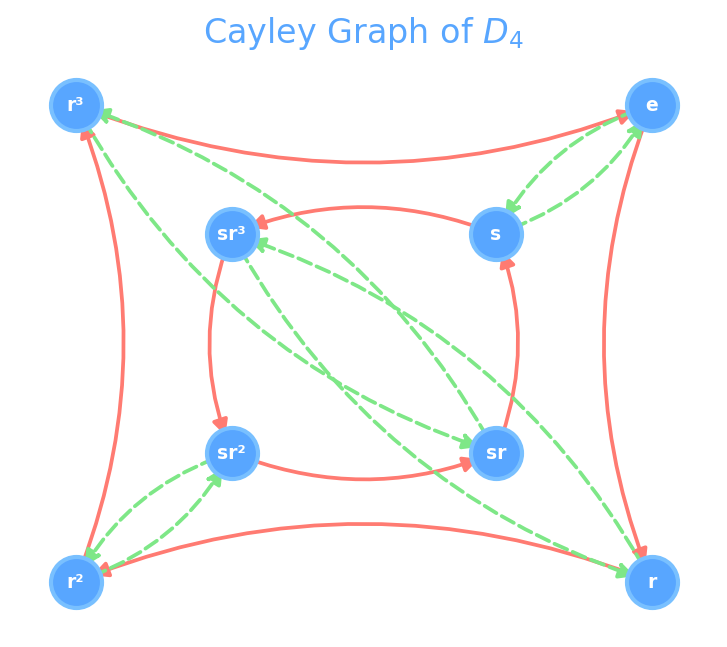
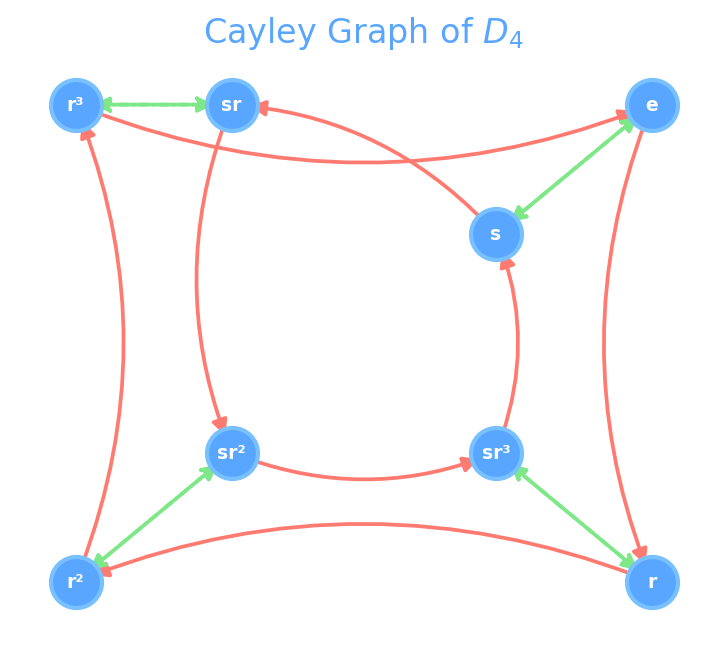
fixes to abstract algebra

diff --git a/02_abstract_algebra/lectures/demos/rs_demo.html b/02_abstract_algebra/lectures/demos/rs_demo.html
@@ -228,7 +228,8 @@ function decode() {
     // Chien search
     const errPos = [];
     for (let i = 0; i < r.length; i++) {
-        const root = EXP[(Q - 1 - i) % (Q - 1)];
+        const p = r.length - 1 - i;
+        const root = EXP[(Q - 1 - (p % (Q - 1))) % (Q - 1)];
         let val = 0;
         for (const c of sigma) val = gfAdd(gfMul(val, root), c);
         if (val === 0) errPos.push(i);

diff --git a/02_abstract_algebra/lectures/generate_assets.py b/02_abstract_algebra/lectures/generate_assets.py
@@ -23,7 +23,7 @@ plt.rcParams.update({
 # ────────────────────────────────────────────────────────────
 def draw_zn_clock(n, filename):
     fig, ax = plt.subplots(figsize=(5, 5))
-    angles = [2 * np.pi * k / n - np.pi/2 for k in range(n)]
+    angles = [np.pi/2 - 2 * np.pi * k / n for k in range(n)]
     r = 0.85
     for k in range(n):
         x, y = r * np.cos(angles[k]), r * np.sin(angles[k])
@@ -88,7 +88,7 @@ def cayley_d3():
     nx.draw_networkx_edges(G, pos, edgelist=r_edges, ax=ax, edge_color='#ff7b72', arrows=True, 
                            arrowsize=18, connectionstyle='arc3,rad=0.15', width=2, label='r (rotate)')
     nx.draw_networkx_edges(G, pos, edgelist=s_edges, ax=ax, edge_color='#7ee787', arrows=True,
-                           arrowsize=18, connectionstyle='arc3,rad=0.15', width=2, style='dashed', label='s (reflect)')
+                           arrowsize=18, width=2, style='dashed', label='s (reflect)')
 
     ax.set_title('Cayley Graph of $D_3 \\cong S_3$', fontsize=16, color='#58a6ff')
     ax.legend(loc='lower right', facecolor='#161b22', labelcolor='white', fontsize=10)
@@ -107,7 +107,7 @@ def cayley_z6():
     for i in range(6):
         G.add_node(str(i))
         G.add_edge(str(i), str((i+1) % 6))
-    angles = [2 * np.pi * k / 6 - np.pi/2 for k in range(6)]
+    angles = [np.pi/2 - 2 * np.pi * k / 6 for k in range(6)]
     pos = {str(k): (np.cos(angles[k]), np.sin(angles[k])) for k in range(6)}
 
     fig, ax = plt.subplots(figsize=(5, 5))
@@ -128,7 +128,7 @@ print("✓ Cayley Z_6")
 # ────────────────────────────────────────────────────────────
 def cayley_d4():
     elems = ['e', 'r', 'r²', 'r³', 's', 'sr', 'sr²', 'sr³']
-    r_map = {'e':'r', 'r':'r²', 'r²':'r³', 'r³':'e', 's':'sr³', 'sr':'s', 'sr²':'sr', 'sr³':'sr²'}
+    r_map = {'e':'r', 'r':'r²', 'r²':'r³', 'r³':'e', 's':'sr', 'sr':'sr²', 'sr²':'sr³', 'sr³':'s'}
     s_map = {'e':'s', 'r':'sr³', 'r²':'sr²', 'r³':'sr', 's':'e', 'sr':'r³', 'sr²':'r²', 'sr³':'r'}
 
     G = nx.DiGraph()
@@ -143,8 +143,8 @@ def cayley_d4():
     pos = {
         'e':   (outer, outer),   'r':   (outer, -outer),
         'r²':  (-outer, -outer), 'r³':  (-outer, outer),
-        's':   (inner, inner),   'sr':  (inner, -inner),
-        'sr²': (-inner, -inner), 'sr³': (-inner, inner),
+        's':   (inner, inner),   'sr³': (inner, -inner),
+        'sr²': (-inner, -inner), 'sr':  (-inner, outer),
     }
 
     fig, ax = plt.subplots(figsize=(6, 5))
@@ -156,7 +156,7 @@ def cayley_d4():
     nx.draw_networkx_edges(G, pos, edgelist=r_edges, ax=ax, edge_color='#ff7b72', arrows=True,
                            arrowsize=15, connectionstyle='arc3,rad=0.2', width=1.8)
     nx.draw_networkx_edges(G, pos, edgelist=s_edges, ax=ax, edge_color='#7ee787', arrows=True,
-                           arrowsize=15, connectionstyle='arc3,rad=0.2', width=1.8, style='dashed')
+                           arrowsize=15, width=1.8, style='dashed')
 
     ax.set_title('Cayley Graph of $D_4$', fontsize=16, color='#58a6ff')
     ax.axis('off')
@@ -261,7 +261,7 @@ def un_comparison():
         from math import gcd
         elems = [k for k in range(1, n) if gcd(k, n) == 1]
         m = len(elems)
-        angles = [2 * np.pi * i / m - np.pi/2 for i in range(m)]
+        angles = [np.pi/2 - 2 * np.pi * i / m for i in range(m)]
         r = 0.85
 
         # Find if cyclic: check if any element has order m

diff --git a/02_abstract_algebra/lectures/chapters/01_groups.md b/02_abstract_algebra/lectures/chapters/01_groups.md
@@ -52,11 +52,37 @@ This is the multiplicative group of the field $GF(p)$ — the starting point for
 
 ---
 
+# Cyclic Groups & Generators
+
+A group $G$ is **cyclic** if there exists $g \in G$ such that $G = \\{g^0, g^1, g^2, \\ldots, g^{n-1}\\}$.
+
+**Theorem:** Every finite cyclic group of order $n$ is isomorphic to $\\mathbb{Z}_n$.
+
+**Theorem (Primitive Root):** $U(p) \\cong \\mathbb{Z}_{p-1}$ for every prime $p$. In particular, there exists $\\alpha \\in U(p)$ such that $\\alpha, \\alpha^2, \\ldots, \\alpha^{p-1} = 1$ generates all nonzero elements.
+
+**Why this matters:** In $GF(p^n)$, the multiplicative group $GF(p^n)^*$ is also cyclic of order $p^n - 1$. The generator $\alpha$ is a root of a **primitive polynomial** — this is the key to constructing extension fields.
+
+<br><br><br><br>
+
+# The Dihedral Group $D_n$
+
+The symmetries of a regular $n$-gon form the **dihedral group** $D_n$ of order $2n$.
+
+- **Rotations** $\{e, r, r^2, \ldots, r^{n-1}\}$ form a cyclic normal subgroup $\langle r \rangle \cong \mathbb{Z}_n$
+- **Reflections** $\{s, sr, sr^2, \ldots, sr^{n-1}\}$ form a coset
+
+**Key relation:** $srs^{-1} = r^{-1}$ — conjugating a rotation by a reflection *reverses* it. This is why $D_n$ is non-abelian for $n \geq 3$.
+
+**Presentation:** $D_n = \langle\\, r, s \mid r^n = s^2 = e,\ srs = r^{-1}\\,\rangle$
+
+**Semi-direct product:** $D_n \cong \mathbb{Z}_n \rtimes \mathbb{Z}_2$, where $\mathbb{Z}_2$ acts on $\mathbb{Z}_n$ by inversion. The "twist" distinguishes this from the direct product $\mathbb{Z}_n \times \mathbb{Z}_2$.
+
+---
 # Multiplication Tables (Cayley Tables)
 
 A group's entire structure is captured by its multiplication table. Each row and column is a permutation of the elements (Latin square property).
 
-:::matrix { cols="50/50" height="60%"}
+:::matrix { cols="50/50" height="60%" gap="20px"}
 
 [[0, 0]]
 <div class="cayley-table-wrapper">
@@ -107,10 +133,10 @@ Every group can be visualized as a directed graph. Given generators $S \subset G
 ![](./assets/cayley_z6.png){height=90% center}
 
 [[0, 1]]
-![](./assets/cayley_d3.png){height=90% center}
+![](./assets/cayley_d3.png?v=2){height=90% center}
 
 [[0, 2]]
-![](./assets/cayley_d4.png){height=90% center}
+![](./assets/cayley_d4.png?v=2){height=90% center}
 
 :::
 
@@ -124,33 +150,6 @@ The Cayley graph encodes the entire group structure: subgroups appear as sub-gra
 
 ---
 
-# Cyclic Groups & Generators
-
-A group $G$ is **cyclic** if there exists $g \in G$ such that $G = \{g^0, g^1, g^2, \ldots, g^{n-1}\}$.
-
-**Theorem:** Every finite cyclic group of order $n$ is isomorphic to $\mathbb{Z}_n$.
-
-**Theorem (Primitive Root):** $U(p) \cong \mathbb{Z}_{p-1}$ for every prime $p$. In particular, there exists $\alpha \in U(p)$ such that $\alpha, \alpha^2, \ldots, \alpha^{p-1} = 1$ generates all nonzero elements.
-
-**Why this matters:** In $GF(p^n)$, the multiplicative group $GF(p^n)^*$ is also cyclic of order $p^n - 1$. The generator $\alpha$ is a root of a **primitive polynomial** — this is the key to constructing extension fields.
-
----
-
-# The Dihedral Group $D_n$
-
-The symmetries of a regular $n$-gon form the **dihedral group** $D_n$ of order $2n$.
-
-- **Rotations** $\{e, r, r^2, \ldots, r^{n-1}\}$ form a cyclic normal subgroup $\langle r \rangle \cong \mathbb{Z}_n$
-- **Reflections** $\{s, sr, sr^2, \ldots, sr^{n-1}\}$ form a coset
-
-**Key relation:** $srs^{-1} = r^{-1}$ — conjugating a rotation by a reflection *reverses* it. This is why $D_n$ is non-abelian for $n \geq 3$.
-
-**Presentation:** $D_n = \langle\\, r, s \mid r^n = s^2 = e,\ srs = r^{-1}\\,\rangle$
-
-**Semi-direct product:** $D_n \cong \mathbb{Z}_n \rtimes \mathbb{Z}_2$, where $\mathbb{Z}_2$ acts on $\mathbb{Z}_n$ by inversion. The "twist" distinguishes this from the direct product $\mathbb{Z}_n \times \mathbb{Z}_2$.
-
----
-
 # Subgroups & Lagrange's Theorem
 
 A **subgroup** $H \leq G$ is a subset closed under the group operation and inverses.
@@ -159,59 +158,63 @@ A **subgroup** $H \leq G$ is a subset closed under the group operation and inver
 
 The **index** $[G:H] = |G| / |H|$ counts the number of distinct cosets.
 
-:::matrix { cols="50/50" height="65%"}
+:::matrix { cols="50/50" }
 
 [[0, 0]]
-![](./assets/coset_partition.png){height=90% center}
+![](./assets/coset_partition.png){width="80%" center}
 
 [[0, 1]]
 **Left cosets** of $H$ in $G$:
 
-$$gH = \{g \cdot h \mid h \in H\}$$
+$$gH = \\{g \cdot h \mid h \in H\\}$$
 
 Cosets partition $G$ into blocks of equal size $|H|$. Two elements are in the same coset iff $g_1^{-1} g_2 \in H$.
 
-**Example:** $H = \langle s \rangle = \{e, s\}$ in $D_3$.
+**Example:** $H = \\langle s \\rangle = \\{e, s\\}$ in $D\_3$.
 
-$|D_3| = 6$, $|H| = 2$, so $[D_3 : H] = 3$ cosets.
+$|D\_3| = 6$, $|H| = 2$, so $[D\_3 : H] = 3$ cosets.
 :::
 
 ---
+
+:::matrix { cols="50/50" gap="30px"}
+[[0¸0]]
 
 # Homomorphisms, Kernels, and Images
 
 A **group homomorphism** $\phi: G \to H$ preserves structure: $\phi(ab) = \phi(a)\phi(b)$.
 
-The **kernel** $\ker\phi = \{g \in G \mid \phi(g) = e_H\}$ measures "what gets collapsed."
+The **kernel** $\ker\phi = \\{g \in G \mid \phi(g) = e_H\\}$ measures "what gets collapsed."
 
-The **image** $\mathrm{im}\\,\phi = \{\phi(g) \mid g \in G\}$ is what $G$ "looks like" inside $H$.
+The **image** $\mathrm{im}\\,\phi = \\{\phi(g) \mid g \in G\\}$ is what $G$ "looks like" inside $H$.
 
 **Key facts:**
 - $\ker\phi$ is always a normal subgroup of $G$
 - $\mathrm{im}\\,\phi$ is always a subgroup of $H$
-- $\phi$ is injective $\iff$ $\ker\phi = \{e\}$
+- $\phi$ is injective $\iff$ $\ker\phi = \\{e\\}$
 
 **Example:** $\phi: \mathbb{Z} \to \mathbb{Z}_n$, $\phi(k) = k \bmod n$.
-- $\ker\phi = n\mathbb{Z} = \{\ldots, -n, 0, n, 2n, \ldots\}$
+- $\ker\phi = n\mathbb{Z} = \\{\ldots, -n, 0, n, 2n, \ldots\\}$
 - $\mathrm{im}\\,\phi = \mathbb{Z}_n$ (surjective)
 
----
 
+[[0,1]]
 # Normal Subgroups & Quotient Groups
 
-A subgroup $H$ is **normal** ($H \trianglelefteq G$) if it is invariant under conjugation:
+A subgroup $N$ is **normal** ($N \trianglelefteq G$) if it is invariant under conjugation:
 
-$$gHg^{-1} = H \quad \text{for all } g \in G$$
+$$gNg^{-1} = N \quad \text{for all } g \in G$$
 
-Equivalently: left cosets = right cosets, so $gH = Hg$.
+Equivalently: left cosets = right cosets, so $gN = Ng$.
 
-**When $H$ is normal**, the set of cosets $G/H$ itself forms a group under $[g_1H] \cdot [g_2H] = [(g_1 g_2)H]$.
+**When $N$ is normal**, the set of cosets $G/N$ itself forms a group under $[g_1N] \cdot [g_2N] = [(g_1 g_2)N]$.
 
 **Examples:**
 - Every subgroup of an abelian group is normal
 - The **center** $Z(G) = \{z \in G \mid zg = gz \ \forall g\}$ is always normal
 - The **commutator subgroup** $[G,G] = \langle aba^{-1}b^{-1} \rangle$ is always normal
 - $G/[G,G]$ is always abelian — the "abelianization" of $G$
+:::
 
 ---
 

diff --git a/02_abstract_algebra/lectures/chapters/02_rings_and_fields.md b/02_abstract_algebra/lectures/chapters/02_rings_and_fields.md
@@ -149,7 +149,7 @@ There are exactly $p^n$ such polynomials → $|GF(p^n)| = p^n$.
 
 $GF(4) = GF(2)[x] / \langle x^2 + x + 1 \rangle$. Let $\alpha$ be a root, so $\alpha^2 + \alpha + 1 = 0$, i.e., $\alpha^2 = \alpha + 1$.
 
-:::matrix { cols="50/50" gap="5%" height="78%"}
+:::matrix { cols="50/50" gap="20pt" }
 
 [[0, 0]]
 
@@ -173,13 +173,7 @@ The multiplicative group $GF(4)^* = \{1, \alpha, \alpha+1\}$ is cyclic of order 
 | $\alpha$ | $\alpha$ | $\alpha{+}1$ | $0$ | $1$ |
 | $\alpha{+}1$ | $\alpha{+}1$ | $\alpha$ | $1$ | $0$ |
 
-:::
-
----
-
-# $GF(4)$ Multiplication
-
-Using $\alpha^2 = \alpha + 1$ and $\alpha^3 = \alpha \cdot \alpha^2 = \alpha(\alpha+1) = \alpha^2 + \alpha = 1$:
+[[1,1]]
 
 | $\times$ | $0$ | $1$ | $\alpha$ | $\alpha{+}1$ |
 |---|---|---|---|---|
@@ -188,11 +182,20 @@ Using $\alpha^2 = \alpha + 1$ and $\alpha^3 = \alpha \cdot \alpha^2 = \alpha(\al
 | $\alpha$ | $0$ | $\alpha$ | $\alpha{+}1$ | $1$ |
 | $\alpha{+}1$ | $0$ | $\alpha{+}1$ | $1$ | $\alpha$ |
 
-Every nonzero row is a permutation — no zero divisors. Division is well-defined. $GF(4)$ is a field.
+[[1,0]]
 
-**Verify:** $\alpha \cdot \alpha = \alpha^2 = \alpha + 1$ ✓. $\alpha \cdot (\alpha+1) = \alpha^2 + \alpha = (\alpha+1) + \alpha = 1$ ✓.
+Every nonzero row is a permutation — no zero divisors. 
+Division is well-defined. 
+$GF(4)$ is a field.
 
-So $\alpha^{-1} = \alpha + 1$ and $(\alpha+1)^{-1} = \alpha$. Multiplicative inverses via log/exp: $\alpha^{-1} = \alpha^{3-1} = \alpha^2 = \alpha + 1$.
+**Verify:** 
+   - $\alpha \cdot \alpha = \alpha^2 = \alpha + 1$ ✓. 
+   - $\alpha \cdot (\alpha+1) = \alpha^2 + \alpha = (\alpha+1) + \alpha = 1$ ✓.
+
+So $\alpha^{-1} = \alpha + 1$ and $(\alpha+1)^{-1} = \alpha$. 
+Multiplicative inverses via log/exp: $\alpha^{-1} = \alpha^{3-1} = \alpha^2 = \alpha + 1$.
+
+:::
 
 ---
 

diff --git a/02_abstract_algebra/lectures/chapters/03_reed_solomon.md b/02_abstract_algebra/lectures/chapters/03_reed_solomon.md
@@ -398,7 +398,7 @@ The algorithm is **mathematically identical** to what you know from linear algeb
 
 # Interactive: RS Encoder / Decoder
 
-<iframe src="demos/rs_demo.html" style="width: 100%; height: 62vh; border: 1px solid #30363d; border-radius: 8px;"></iframe>
+<iframe src="demos/rs_demo.html?v=2" style="width: 100%; height: 62vh; border: 1px solid #30363d; border-radius: 8px;"></iframe>
 
 ---
 
